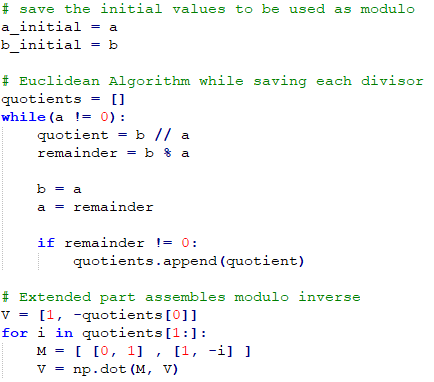
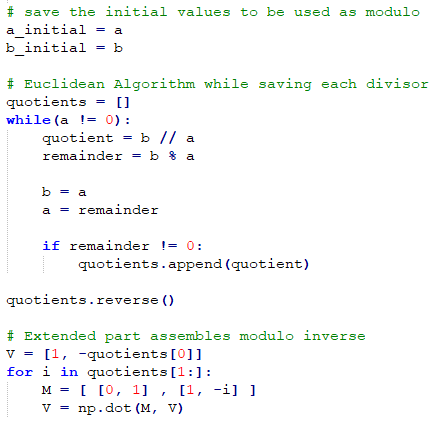
Fixed up extended euclidean

diff --git a/RSA_Basic.py b/RSA_Basic.py
@@ -136,6 +136,8 @@ def extended_euclidean_algorithm(a, b):
         if remainder != 0:
             quotients.append(quotient)
     
+    quotients.reverse()
+    
     # Extended part assembles modulo inverse
     V = [1, -quotients[0]]
     for i in quotients[1:]:

diff --git a/RSA_CRT.py b/RSA_CRT.py
@@ -162,6 +162,8 @@ def extended_euclidean_algorithm(a, b):
         if remainder != 0:
             quotients.append(quotient)
     
+    quotients.reverse()
+
     # Extended part assembles modulo inverse
     V = [1, -quotients[0]]
     for i in quotients[1:]:
